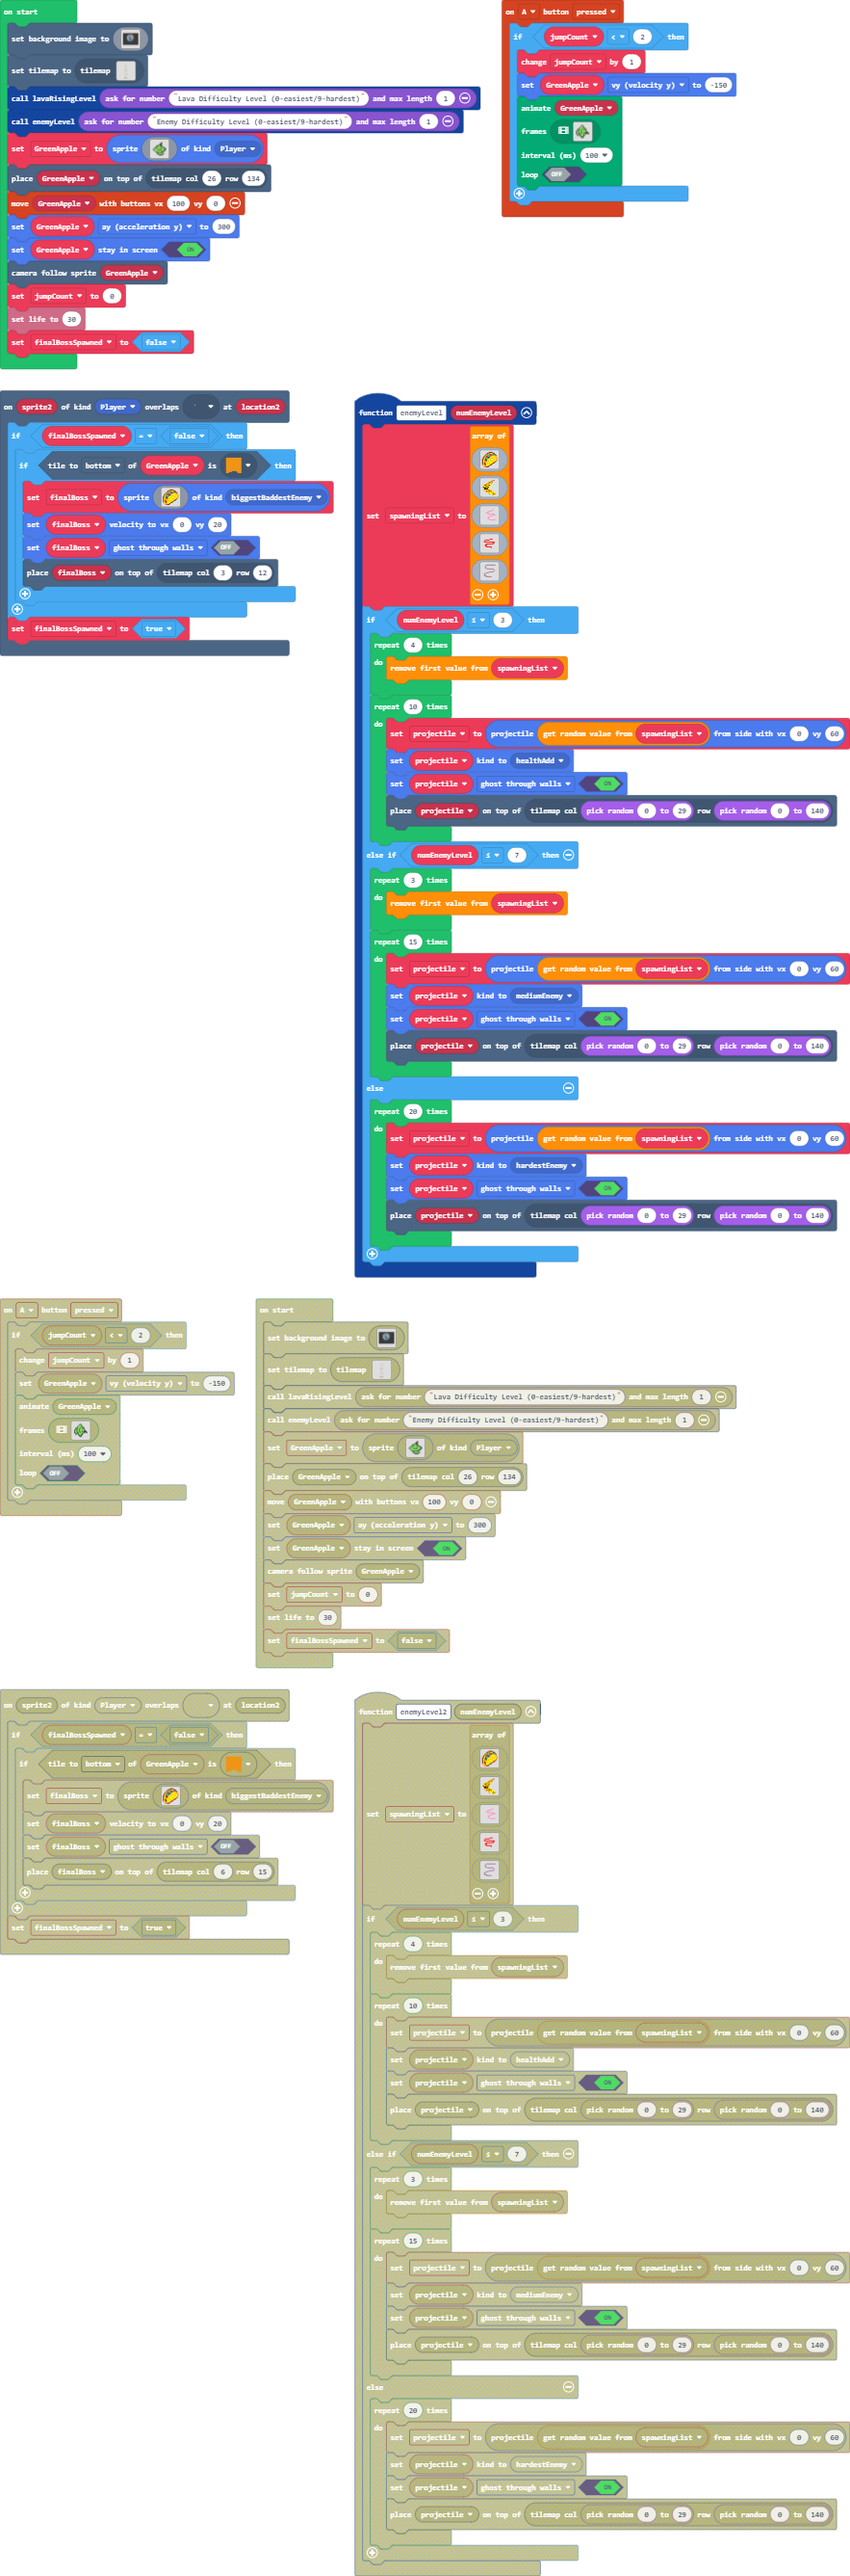
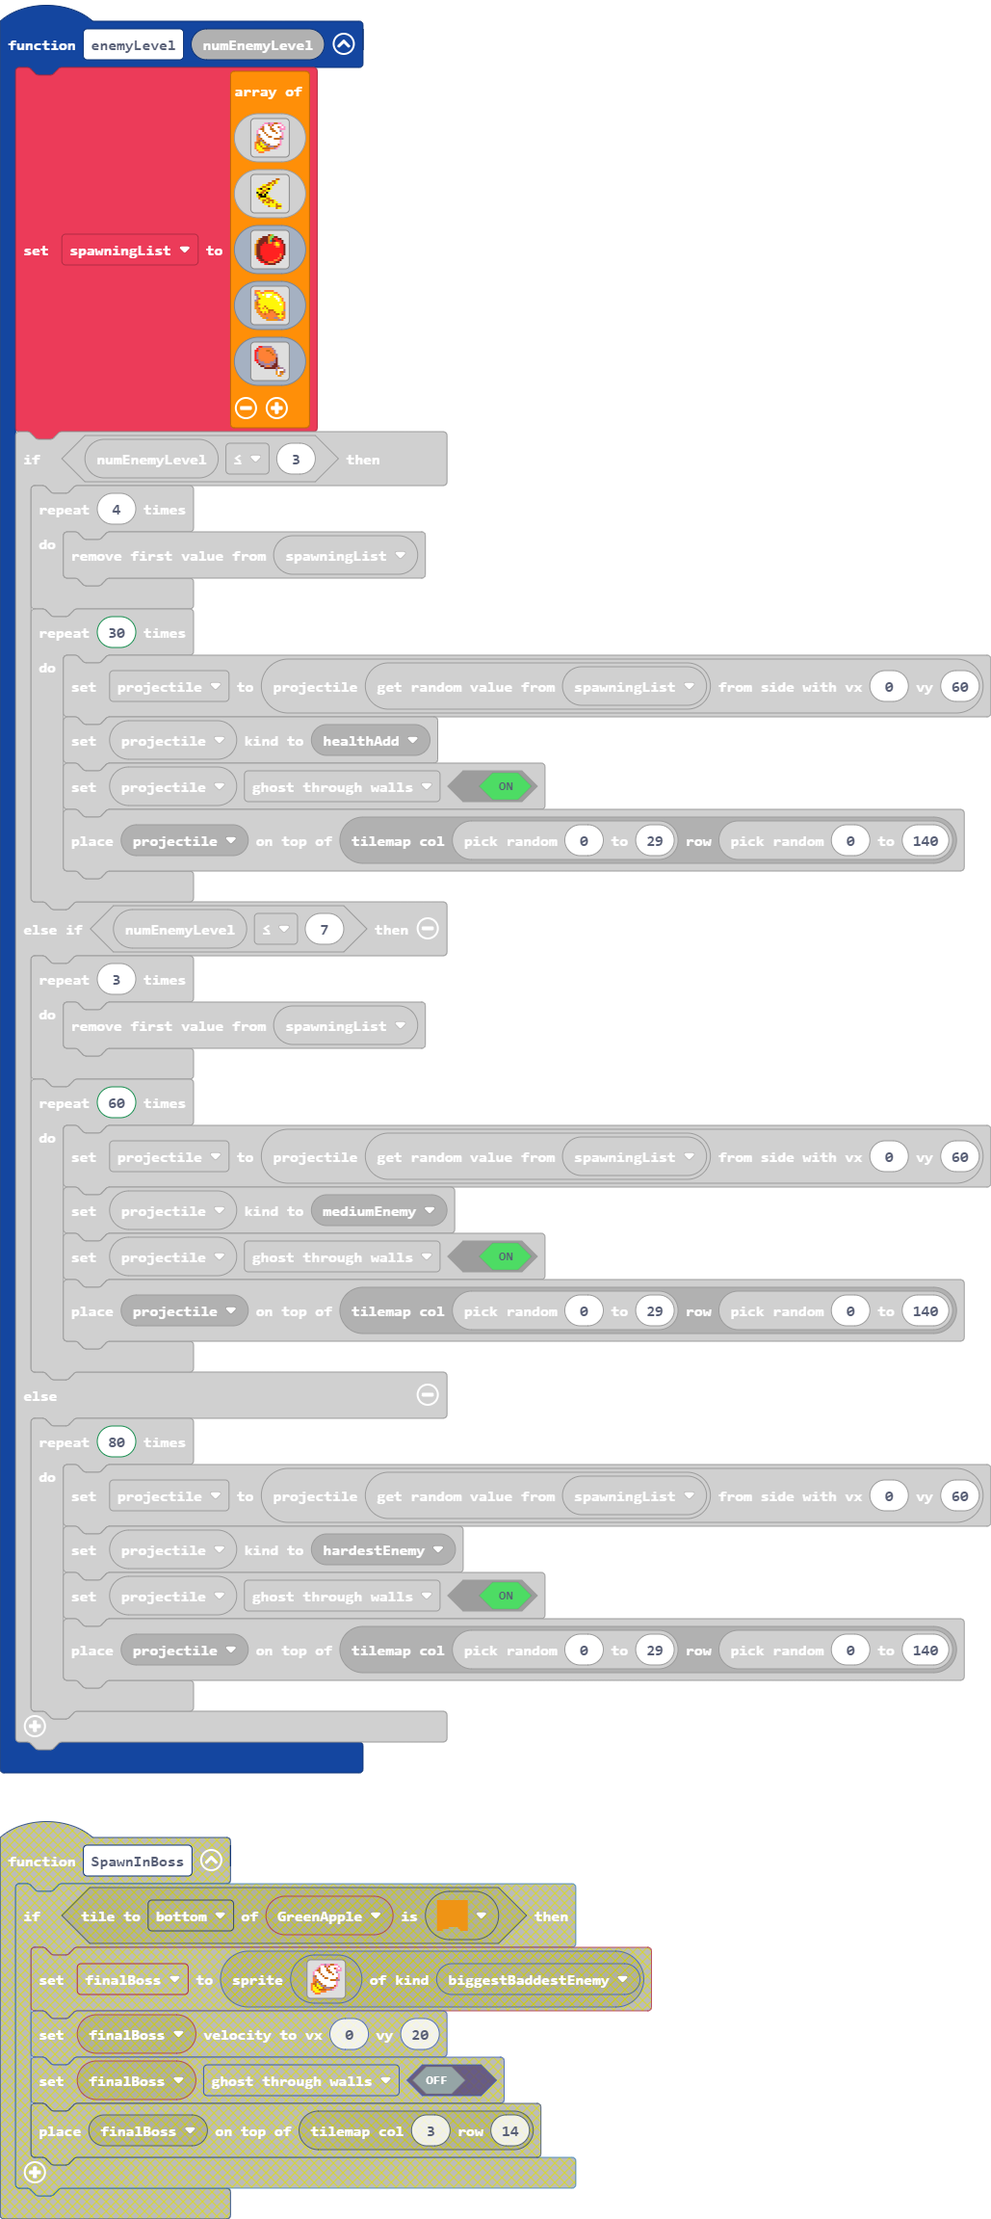
pelase

diff --git a/main.ts b/main.ts
@@ -9,65 +9,65 @@ function enemyLevel (numEnemyLevel: number) {
     assets.image`archnemesis`,
     assets.image`rottenBanana`,
     img`
-        . . . . . . . . . . . . . . . . 
-        . . . . . . . . . . . . . . . . 
-        . . . . . . . . . . 3 3 . . . . 
-        . . . . . . . 3 3 3 . . . . . . 
-        . . . . . 3 3 3 . . . . . . . . 
-        . . . . 3 3 . . . . . . . . . . 
-        . . . . . . 3 3 3 3 3 3 3 . . . 
-        . . . . . . . . . . . 3 3 3 . . 
-        . . . . . . . . 3 3 3 . . . . . 
-        . . . . . . 3 3 . . . . . . . . 
-        . . . . . . 3 . . . . . . . . . 
-        . . . . . . 3 3 . . . . . . . . 
-        . . . . . . . . 3 3 3 3 3 3 . . 
-        . . . . . . . . . . . . . . . . 
-        . . . . . . . . . . . . . . . . 
-        . . . . . . . . . . . . . . . . 
+        . . . . . . . e c 7 . . . . . . 
+        . . . . e e e c 7 7 e e . . . . 
+        . . c e e e e c 7 e 2 2 e e . . 
+        . c e e e e e c 6 e e 2 2 2 e . 
+        . c e e e 2 e c c 2 4 5 4 2 e . 
+        c e e e 2 2 2 2 2 2 4 5 5 2 2 e 
+        c e e 2 2 2 2 2 2 2 2 4 4 2 2 e 
+        c e e 2 2 2 2 2 2 2 2 2 2 2 2 e 
+        c e e 2 2 2 2 2 2 2 2 2 2 2 2 e 
+        c e e 2 2 2 2 2 2 2 2 2 2 2 2 e 
+        c e e 2 2 2 2 2 2 2 2 2 2 4 2 e 
+        . e e e 2 2 2 2 2 2 2 2 2 4 e . 
+        . 2 e e 2 2 2 2 2 2 2 2 4 2 e . 
+        . . 2 e e 2 2 2 2 2 4 4 2 e . . 
+        . . . 2 2 e e 4 4 4 2 e e . . . 
+        . . . . . 2 2 e e e e . . . . . 
         `,
     img`
-        . . . . . . . . . . . . . . . . 
-        . . . . . . . . . . . . . . . . 
-        . . . . . . . . . . . . . . . . 
-        . . . . . . . . 2 2 2 . . . . . 
-        . . . 2 2 2 2 2 . . . . . . . . 
-        . . 2 . . . . . . . . . . . . . 
-        . . 2 2 2 2 2 2 2 2 2 2 2 . . . 
-        . . . . . . . . . . . 2 2 . . . 
-        . . . . 2 2 2 2 2 2 2 2 . . . . 
-        . . . 2 2 . . . . . . . . . . . 
-        . . . 2 2 . . . . . . . . . . . 
-        . . . . 2 2 2 2 2 2 . . . . . . 
-        . . . . . . . . . 2 . . . . . . 
-        . . . . . . . . . . . . . . . . 
-        . . . . . . . . . . . . . . . . 
-        . . . . . . . . . . . . . . . . 
+        4 4 4 . . 4 4 4 4 4 . . . . . . 
+        4 5 5 4 4 5 5 5 5 5 4 4 . . . . 
+        b 4 5 5 1 5 1 1 1 5 5 5 4 . . . 
+        . b 5 5 5 5 1 1 5 5 1 1 5 4 . . 
+        . b d 5 5 5 5 5 5 5 5 1 1 5 4 . 
+        b 4 5 5 5 5 5 5 5 5 5 5 1 5 4 . 
+        c d 5 5 5 5 5 5 5 5 5 5 5 5 5 4 
+        c d 4 5 5 5 5 5 5 5 5 5 5 1 5 4 
+        c 4 5 5 5 d 5 5 5 5 5 5 5 5 5 4 
+        c 4 d 5 4 5 d 5 5 5 5 5 5 5 5 4 
+        . c 4 5 5 5 5 d d d 5 5 5 5 5 b 
+        . c 4 d 5 4 5 d 4 4 d 5 5 5 4 c 
+        . . c 4 4 d 4 4 4 4 4 d d 5 d c 
+        . . . c 4 4 4 4 4 4 4 4 5 5 5 4 
+        . . . . c c b 4 4 4 b b 4 5 4 4 
+        . . . . . . c c c c c c b b 4 . 
         `,
     img`
-        . . . . . . . . . . . . . . . . 
-        . . . . b b b b b b b b b b . . 
-        . . . b . . . . . . . . . . . . 
-        . . . b . . . . . . . . . . . . 
-        . . . b b . . . . . . . . . . . 
-        . . . . . b b b b b b b . . . . 
-        . . . . . . . . . . . . b . . . 
-        . . . . . . . . . . . . b . . . 
-        . . . . . . . b b b b b . . . . 
-        . . . . b b b . . . . . . . . . 
-        . . b b . . . . . . . . . . . . 
-        . . b . . . . . . . . . . . . . 
-        . . b b b . . . . . . . . . . . 
-        . . . . b b b b b b . . . . . . 
-        . . . . . . . . . . . . . . . . 
-        . . . . . . . . . . . . . . . . 
+        . . 2 2 b b b b b . . . . . . . 
+        . 2 b 4 4 4 4 4 4 b . . . . . . 
+        2 2 4 4 4 4 d d 4 4 b . . . . . 
+        2 b 4 4 4 4 4 4 d 4 b . . . . . 
+        2 b 4 4 4 4 4 4 4 d 4 b . . . . 
+        2 b 4 4 4 4 4 4 4 4 4 b . . . . 
+        2 b 4 4 4 4 4 4 4 4 4 e . . . . 
+        2 2 b 4 4 4 4 4 4 4 b e . . . . 
+        . 2 b b b 4 4 4 b b b e . . . . 
+        . . e b b b b b b b e e . . . . 
+        . . . e e b 4 4 b e e e b . . . 
+        . . . . . e e e e e e b d b b . 
+        . . . . . . . . . . . b 1 1 1 b 
+        . . . . . . . . . . . c 1 d d b 
+        . . . . . . . . . . . c 1 b c . 
+        . . . . . . . . . . . . c c . . 
         `
     ]
     if (numEnemyLevel <= 3) {
         for (let index = 0; index < 4; index++) {
             spawningList.shift()
         }
-        for (let index = 0; index < 10; index++) {
+        for (let index = 0; index < 30; index++) {
             projectile = sprites.createProjectileFromSide(spawningList._pickRandom(), 0, 60)
             projectile.setKind(SpriteKind.healthAdd)
             projectile.setFlag(SpriteFlag.GhostThroughWalls, true)
@@ -77,14 +77,14 @@ function enemyLevel (numEnemyLevel: number) {
         for (let index = 0; index < 3; index++) {
             spawningList.shift()
         }
-        for (let index = 0; index < 15; index++) {
+        for (let index = 0; index < 60; index++) {
             projectile = sprites.createProjectileFromSide(spawningList._pickRandom(), 0, 60)
             projectile.setKind(SpriteKind.mediumEnemy)
             projectile.setFlag(SpriteFlag.GhostThroughWalls, true)
             tiles.placeOnTile(projectile, tiles.getTileLocation(randint(0, 29), randint(0, 140)))
         }
     } else {
-        for (let index = 0; index < 20; index++) {
+        for (let index = 0; index < 80; index++) {
             projectile = sprites.createProjectileFromSide(spawningList._pickRandom(), 0, 60)
             projectile.setKind(SpriteKind.hardestEnemy)
             projectile.setFlag(SpriteFlag.GhostThroughWalls, true)
@@ -224,14 +224,6 @@ scene.onOverlapTile(SpriteKind.Player, sprites.dungeon.hazardLava0, function (sp
         info.changeLifeBy(-1)
     })
 })
-function SpawnInBoss () {
-    if (GreenApple.tileKindAt(TileDirection.Bottom, sprites.builtin.oceanSand14)) {
-        finalBoss = sprites.create(assets.image`archnemesis`, SpriteKind.biggestBaddestEnemy)
-        finalBoss.setVelocity(0, 20)
-        finalBoss.setFlag(SpriteFlag.GhostThroughWalls, false)
-        tiles.placeOnTile(finalBoss, tiles.getTileLocation(3, 14))
-    }
-}
 function lavaRisingLevel (numLavaLevel: number) {
     if (numLavaLevel <= 3) {
         lavaBlock += 1
@@ -264,8 +256,8 @@ scene.onOverlapTile(SpriteKind.Player, assets.tile`myTile`, function (sprite2, l
     }
     finalBossSpawned = true
 })
-let lavaBlock = 0
 let finalBoss: Sprite = null
+let lavaBlock = 0
 let projectile: Sprite = null
 let spawningList: Image[] = []
 let finalBossSpawned = false

diff --git a/tilemap.g.ts b/tilemap.g.ts
@@ -188,6 +188,25 @@ namespace myTiles {
 . . . . . . . . . . . . . . . . 
 . . . . . . . . . . . . . . . . 
 `, [myTiles.transparency16], TileScale.Sixteen);
+            case "level4":
+            case "level4":return tiles.createTilemap(hex`1000100000000000000000000000000000000000000000000000000000000000000000000000000000000000000000000000000000000000000000000000000000000000000000000000000000000000000000000000000000000000000000000000000000000000000000000000000000000000000000000000000000000000000000000000000000000000000000000000000000000000000000000000000000000000000000000000000000000000000000000000000000000000000000000000000000000000000000000000000000000000000000000000000000000000000000000000000000000000000000000000000000000000000000000000000000000000`, img`
+. . . . . . . . . . . . . . . . 
+. . . . . . . . . . . . . . . . 
+. . . . . . . . . . . . . . . . 
+. . . . . . . . . . . . . . . . 
+. . . . . . . . . . . . . . . . 
+. . . . . . . . . . . . . . . . 
+. . . . . . . . . . . . . . . . 
+. . . . . . . . . . . . . . . . 
+. . . . . . . . . . . . . . . . 
+. . . . . . . . . . . . . . . . 
+. . . . . . . . . . . . . . . . 
+. . . . . . . . . . . . . . . . 
+. . . . . . . . . . . . . . . . 
+. . . . . . . . . . . . . . . . 
+. . . . . . . . . . . . . . . . 
+. . . . . . . . . . . . . . . . 
+`, [myTiles.transparency16], TileScale.Sixteen);
         }
         return null;
     })

diff --git a/images.g.ts b/images.g.ts
@@ -56,22 +56,22 @@ namespace myImages {
 `;
             case "t[{,ZZs!jVANjxo?mj9s":
             case "archnemesis":return img`
-. . . . . . . e e e e . . . . . 
-. . . . . e e 4 5 5 5 e e . . . 
-. . . . e 4 5 6 2 2 7 6 6 e . . 
-. . . e 5 6 6 7 2 2 6 4 4 4 e . 
-. . e 5 2 2 7 6 6 4 5 5 5 5 4 . 
-. e 5 6 2 2 8 8 5 5 5 5 5 4 5 4 
-. e 5 6 7 7 8 5 4 5 4 5 5 5 5 4 
-e 4 5 8 6 6 5 5 5 5 5 5 4 5 5 4 
-e 5 c e 8 5 5 5 4 5 5 5 5 5 5 4 
-e 5 c c e 5 4 5 5 5 4 5 5 5 e . 
-e 5 c c 5 5 5 5 5 5 5 5 4 e . . 
-e 5 e c 5 4 5 4 5 5 5 e e . . . 
-e 5 e e 5 5 5 5 5 4 e . . . . . 
-4 5 4 e 5 5 5 5 e e . . . . . . 
-. 4 5 4 5 5 4 e . . . . . . . . 
-. . 4 4 e e e . . . . . . . . . 
+. . . . . 3 3 b 3 3 d d 3 3 . . 
+. . . . 3 1 1 d 3 d 1 1 1 1 3 . 
+. . . 3 d 1 1 1 d 1 1 1 d 3 1 3 
+. . 3 d d 1 1 1 d d 1 1 1 3 3 3 
+. 3 1 1 d 1 1 1 1 d d 1 1 b . . 
+. 3 1 1 1 d 1 1 1 1 1 d 1 1 3 . 
+. b d 1 1 1 d 1 1 1 1 1 1 1 3 . 
+. 4 b 1 1 1 1 d d 1 1 1 1 d 3 . 
+. 4 4 d 1 1 1 1 1 1 d d d b b . 
+. 4 d b d 1 1 1 1 1 1 1 1 3 . . 
+4 d d 5 b d 1 1 1 1 1 1 1 3 . . 
+4 5 d 5 5 b b d 1 1 1 1 d 3 . . 
+4 5 5 d 5 5 d b b b d d 3 . . . 
+4 5 5 5 d d d d 4 4 b 3 . . . . 
+. 4 5 5 5 4 4 4 . . . . . . . . 
+. . 4 4 4 . . . . . . . . . . . 
 `;
         }
         return null;
